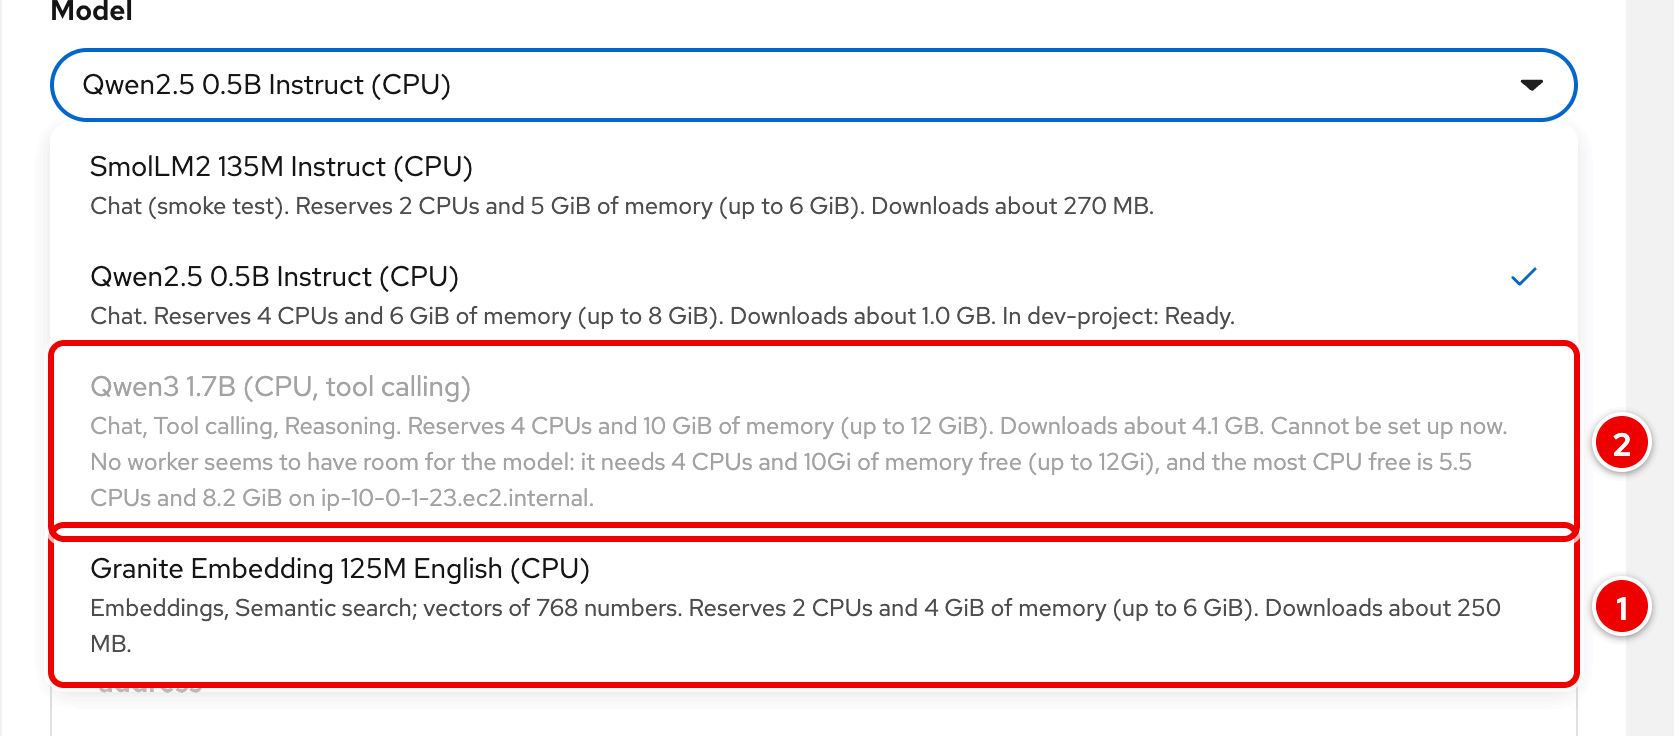
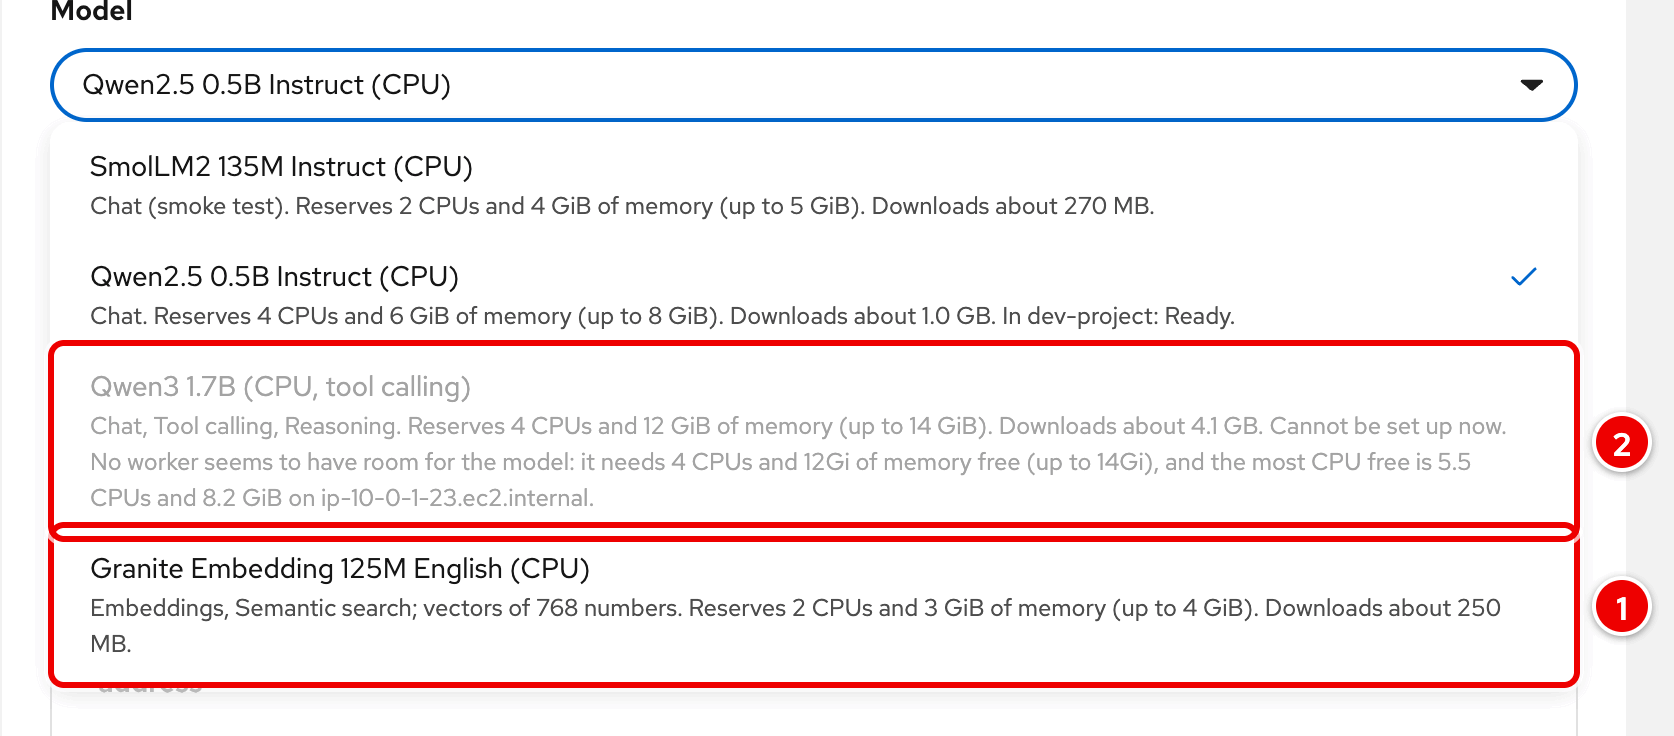
fix(models): size model memory from live measurements
Measured on RHOAI 3.6 with vLLM CPU 0.24 (2026-11-18, idle after start
with the KV cache reserved; oc adm top pod --containers, main container):
Granite embedding 2375Mi, SmolLM2 3364Mi, Qwen2.5 5625Mi, Qwen3 11590Mi.
Qwen3 ran about 0.4 GiB under its 12Gi limit, an OOM risk.

New requests / limits: Qwen3 12Gi / 14Gi, SmolLM2 4Gi / 5Gi, Granite
3Gi / 4Gi; Qwen2.5 stays 6Gi / 8Gi. SmolLM2, Qwen2.5 and Granite still
fit RHOAI 3.6's default-profile (up to 4 CPUs, 8 GiB); Qwen3 fits none,
so the dashboard keeps showing "No hardware profile" for it (new test).
The catalog comment, README, RUNBOOK, docs mock and images follow.

diff --git a/frontend/src/components/environment/models.test.tsx b/frontend/src/components/environment/models.test.tsx
@@ -20,14 +20,14 @@ const model = (ns: string, over: Partial<ModelState> = {}): ModelState => ({
   displayName: "Qwen2.5 0.5B Instruct (CPU)", url: `https://inference.apps.example.com/${ns}/qwen25-05b-instruct`, imageKind: "preset", ...over,
 });
 const catalog: CatalogModel[] = [
-  { name: "smollm2-135m-instruct", displayName: "SmolLM2 135M Instruct (CPU)", uri: "hf://HuggingFaceTB/SmolLM2-135M-Instruct:12fd25f77366fa6b3b4b768ec3050bf629380bac", cpu: "2", memoryRequest: "5Gi", memory: "6Gi",
+  { name: "smollm2-135m-instruct", displayName: "SmolLM2 135M Instruct (CPU)", uri: "hf://HuggingFaceTB/SmolLM2-135M-Instruct:12fd25f77366fa6b3b4b768ec3050bf629380bac", cpu: "2", memoryRequest: "4Gi", memory: "5Gi",
     type: "chat", useCase: "Chat (smoke test)", description: "A very small chat model.", args: "--max-model-len 4096", downloadSize: "270 MB" },
   { name: "qwen25-05b-instruct", displayName: "Qwen2.5 0.5B Instruct (CPU)", uri: "hf://Qwen/Qwen2.5-0.5B-Instruct:7ae557604adf67be50417f59c2c2f167def9a775", cpu: "4", memoryRequest: "6Gi", memory: "8Gi",
     type: "chat", useCase: "Chat", description: "A small chat model.", args: "--max-model-len 4096", downloadSize: "1.0 GB", default: true },
-  { name: "qwen3-1-7b", displayName: "Qwen3 1.7B (CPU, tool calling)", uri: "hf://Qwen/Qwen3-1.7B:70d244cc86ccca08cf5af4e1e306ecf908b1ad5e", cpu: "4", memoryRequest: "10Gi", memory: "12Gi",
+  { name: "qwen3-1-7b", displayName: "Qwen3 1.7B (CPU, tool calling)", uri: "hf://Qwen/Qwen3-1.7B:70d244cc86ccca08cf5af4e1e306ecf908b1ad5e", cpu: "4", memoryRequest: "12Gi", memory: "14Gi",
     type: "chat", toolCalling: true, useCase: "Chat, Tool calling, Reasoning", description: "A chat model that can call tools.", downloadSize: "4.1 GB",
     args: `--max-model-len 4096 --enable-auto-tool-choice --tool-call-parser hermes --reasoning-parser qwen3 --default-chat-template-kwargs '{"enable_thinking":false}'` },
-  { name: "granite-embedding-125m-english", displayName: "Granite Embedding 125M English (CPU)", uri: "hf://ibm-granite/granite-embedding-125m-english:4ab61ffd423be45cd932b21a7c696063d82bf45f", cpu: "2", memoryRequest: "4Gi", memory: "6Gi",
+  { name: "granite-embedding-125m-english", displayName: "Granite Embedding 125M English (CPU)", uri: "hf://ibm-granite/granite-embedding-125m-english:4ab61ffd423be45cd932b21a7c696063d82bf45f", cpu: "2", memoryRequest: "3Gi", memory: "4Gi",
     type: "embedding", embeddingDimension: 768, useCase: "Embeddings, Semantic search", description: "An English embedding model.", args: "--runner pooling --max-model-len 512", downloadSize: "250 MB" },
 ];
 const withRoom = (name: string, capacityWarning: string) => catalog.map((c) => (c.name === name ? { ...c, capacityWarning } : c));
@@ -287,7 +287,7 @@ describe("Models tab", () => {
     fireEvent.click(await screen.findByRole("button", { name: "Model" }));
     const smol = await screen.findByRole("option", { name: /SmolLM2 135M Instruct \(CPU\)/ });
     // What it is for, once: the use case the dashboard shows (no "Chat. For: Chat").
-    expect(smol).toHaveTextContent("Chat (smoke test). Reserves 2 CPUs and 5 GiB of memory (up to 6 GiB). Downloads about 270 MB.");
+    expect(smol).toHaveTextContent("Chat (smoke test). Reserves 2 CPUs and 4 GiB of memory (up to 5 GiB). Downloads about 270 MB.");
     expect(screen.getByRole("option", { name: /Qwen2.5 0.5B/ })).toHaveTextContent(/^Qwen2.5 0.5B Instruct \(CPU\)Chat\. Reserves 4 CPUs/);
     expect(screen.getByRole("option", { name: /Granite Embedding/ })).toHaveTextContent("Embeddings, Semantic search; vectors of 768 numbers. Reserves");
     const qwen3 = screen.getByRole("option", { name: /Qwen3 1.7B/ });
@@ -364,7 +364,7 @@ describe("Models tab", () => {
     stubApi({ "/api/resources/status": status({ inferenceGateway: gateway, models: modelsStatus({ items: [qwen25, qwen3] }) }), "/api/resources/projects": { projects: ["dev"] } });
     const view = renderAt("/test-resources?tab=models&project=dev&model=qwen3-1-7b");
     const part = await screen.findByRole("listitem", { name: "Qwen3 1.7B (CPU, tool calling)" });
-    expect(within(part).getByText(/None fits: no hardware profile on this cluster allows 4 CPUs and 10 GiB of memory \(up to 12 GiB\), so the dashboard.s Deployments table shows/)).toBeInTheDocument();
+    expect(within(part).getByText(/None fits: no hardware profile on this cluster allows 4 CPUs and 12 GiB of memory \(up to 14 GiB\), so the dashboard.s Deployments table shows/)).toBeInTheDocument();
     expect(within(part).getByText(/shows "No hardware profile" and the model.s details "Hardware profile: Unknown"/)).toBeInTheDocument();
     expect(within(part).getByText(/The model runs as set up/)).toBeInTheDocument();
     view.unmount();

diff --git a/pkg/cluster/models_catalog_test.go b/pkg/cluster/models_catalog_test.go
@@ -41,14 +41,14 @@ func TestModelCatalog_TheFourModels(t *testing.T) {
 		tools                                                       bool
 		dim                                                         int
 	}{
-		{"smollm2-135m-instruct", "hf://HuggingFaceTB/SmolLM2-135M-Instruct:12fd25f77366fa6b3b4b768ec3050bf629380bac", "chat", "2", "5Gi", "6Gi", "2", "1",
+		{"smollm2-135m-instruct", "hf://HuggingFaceTB/SmolLM2-135M-Instruct:12fd25f77366fa6b3b4b768ec3050bf629380bac", "chat", "2", "4Gi", "5Gi", "2", "1",
 			"--max-model-len 4096", "Chat (smoke test)", false, 0},
 		{"qwen25-05b-instruct", "hf://Qwen/Qwen2.5-0.5B-Instruct:7ae557604adf67be50417f59c2c2f167def9a775", "chat", "4", "6Gi", "8Gi", "4", "2",
 			"--max-model-len 4096", "Chat", false, 0},
-		{"qwen3-1-7b", "hf://Qwen/Qwen3-1.7B:70d244cc86ccca08cf5af4e1e306ecf908b1ad5e", "chat", "4", "10Gi", "12Gi", "4", "2",
+		{"qwen3-1-7b", "hf://Qwen/Qwen3-1.7B:70d244cc86ccca08cf5af4e1e306ecf908b1ad5e", "chat", "4", "12Gi", "14Gi", "4", "2",
 			`--max-model-len 4096 --enable-auto-tool-choice --tool-call-parser hermes --reasoning-parser qwen3 --default-chat-template-kwargs '{"enable_thinking":false}'`,
 			"Chat, Tool calling, Reasoning", true, 0},
-		{"granite-embedding-125m-english", "hf://ibm-granite/granite-embedding-125m-english:4ab61ffd423be45cd932b21a7c696063d82bf45f", "embedding", "2", "4Gi", "6Gi", "2", "1",
+		{"granite-embedding-125m-english", "hf://ibm-granite/granite-embedding-125m-english:4ab61ffd423be45cd932b21a7c696063d82bf45f", "embedding", "2", "3Gi", "4Gi", "2", "1",
 			"--runner pooling --max-model-len 512", "Embeddings, Semantic search", false, 768},
 	}
 	if len(modelCatalog) != len(want) {
@@ -77,6 +77,23 @@ func TestModelCatalog_TheFourModels(t *testing.T) {
 	}
 	if ValidModelName("llama") || !ValidModelName("qwen3-1-7b") || !ValidModelName("") {
 		t.Error("ValidModelName")
+	}
+}
+
+// The memory is sized from each model's live peak (RHOAI 3.6, vLLM CPU
+// 0.24): the three small models stay within RHOAI 3.6's default-profile
+// (1-4 CPUs, 2-8 GiB), so the dashboard names it for them; Qwen3 (12-14
+// GiB) fits none, and the dashboard shows "No hardware profile".
+func TestModelCatalog_DefaultProfileHoldsAllButQwen3(t *testing.T) {
+	var def hardwareProfileObject
+	if err := json.Unmarshal([]byte(hwProfile("default-profile", "4", "8Gi", "")), &def); err != nil {
+		t.Fatal(err)
+	}
+	for _, m := range modelCatalog {
+		why := def.fits(m)
+		if fits := why == ""; fits != (m.Name != "qwen3-1-7b") {
+			t.Errorf("%s (%s CPUs, %s-%s): fits the default profile = %v (%s)", m.Name, m.CPU, m.MemoryRequest, m.Memory, fits, why)
+		}
 	}
 }
 
@@ -190,7 +207,7 @@ func TestModelCatalog_Qwen3ArgumentsSurviveThePresetsEval(t *testing.T) {
 func TestModelsSetup_TheChosenModel(t *testing.T) {
 	mc := newModelsCluster(t)
 	putModelDeploymentFor(mc, "qwen3-1-7b")
-	// The default profile holds qwen25 (6-8 GiB) but not Qwen3 (10-12 GiB).
+	// The default profile holds qwen25 (6-8 GiB) but not Qwen3 (12-14 GiB).
 	putProfiles(mc, hwProfile("default-profile", "4", "8Gi", ""), hwProfile("large", "8", "16Gi", ""))
 	mc.f.putJSON("/api/v1/nodes/w1", `{"metadata":{"labels":{"kubernetes.io/arch":"amd64"}},"status":{"allocatable":{"cpu":"8","memory":"9Gi"}}}`)
 	res, events := runModels(t, mc.c, types.ModelsRequest{Action: "setup", Gateway: true, Project: "proj", Model: "qwen3-1-7b"})
@@ -209,13 +226,13 @@ func TestModelsSetup_TheChosenModel(t *testing.T) {
 		t.Errorf("hardware profile %v", ann[hardwareProfileNameAnnotation])
 	}
 	main := model["spec"].(map[string]interface{})["template"].(map[string]interface{})["containers"].([]interface{})[0].(map[string]interface{})
-	if r, _ := json.Marshal(main["resources"]); string(r) != `{"limits":{"cpu":"4","memory":"12Gi"},"requests":{"cpu":"4","ephemeral-storage":"6.2G","memory":"10Gi"}}` {
+	if r, _ := json.Marshal(main["resources"]); string(r) != `{"limits":{"cpu":"4","memory":"14Gi"},"requests":{"cpu":"4","ephemeral-storage":"6.2G","memory":"12Gi"}}` {
 		t.Errorf("resources %s", r)
 	}
-	// 9 GiB free holds qwen25's 6 GiB, not Qwen3's 10 GiB.
+	// 9 GiB free holds qwen25's 6 GiB, not Qwen3's 12 GiB.
 	warned := false
 	for _, e := range events {
-		warned = warned || (e.Step == "check" && e.Status == "success" && strings.Contains(e.Message, "it needs 4 CPUs and 10Gi of memory free"))
+		warned = warned || (e.Step == "check" && e.Status == "success" && strings.Contains(e.Message, "it needs 4 CPUs and 12Gi of memory free"))
 	}
 	if !warned {
 		t.Errorf("no capacity warning for the chosen model: %v", events)
@@ -285,7 +302,7 @@ func TestModelsStatus_CatalogWithEachModelsRoom(t *testing.T) {
 			t.Errorf("%s: warning %q", name, got[name])
 		}
 	}
-	if !strings.Contains(got["qwen3-1-7b"], "10Gi") {
+	if !strings.Contains(got["qwen3-1-7b"], "4 CPUs and 12Gi of memory free (up to 14Gi)") {
 		t.Errorf("qwen3 warning %q", got["qwen3-1-7b"])
 	}
 	pods := 0

diff --git a/pkg/cluster/models.go b/pkg/cluster/models.go
@@ -96,23 +96,25 @@ const (
 // (odh-dashboard rhoai-3.6 packages/llmd-serving/src/deployments/model.ts
 // extractRuntimeArgs L147-159), and would list a spaced JSON as two.
 //
-// Memory (requests and limits below, in one place). Measured live only
-// for qwen25 (RHOAI 3.6, vLLM CPU): 7.6 GiB with the preset's 4 GiB KV
-// cache (cgroup memory.peak 7.73 GiB over four parallel 600-token chats),
-// 5.8 GiB with a 2 GiB cache, which still holds over 100k tokens for it
-// (24 layers x 2 KV heads x 64 x 2 x 2 bytes = 12 KiB per token). That is
-// about 1 GB of weights, the cache, and some 3 GiB of runtime. The others
-// are estimates from the same parts (weights + KV cache + about 3 GiB),
-// to be measured live: SmolLM2 0.27 GB + 1 GiB, Qwen3 4.1 GB + 2 GiB,
-// Granite embedding 0.25 GB + 1 GiB. qwen25 also fits the dashboard's
-// default hardware profile (up to 4 CPUs and 8 GiB on 3.6).
+// Memory (requests and limits below, in one place), measured live on
+// RHOAI 3.6 with vLLM CPU 0.24 on 2026-11-18: the main container's memory
+// (oc adm top pod --containers), idle after start with the KV cache
+// already reserved. SmolLM2 3364Mi, Qwen2.5 5625Mi, Qwen3 11590Mi,
+// Granite embedding 2375Mi. Each request is 0.5-0.7 GiB above that, each
+// limit 1.7-2.7 GiB above it, for load. Qwen2.5 under load: 7.6 GiB with
+// the preset's 4 GiB KV cache (cgroup memory.peak 7.73 GiB over four
+// parallel 600-token chats), 5.8 GiB with the 2 GiB cache it has, which
+// still holds over 100k tokens for it (24 layers x 2 KV heads x 64 x 2 x 2
+// bytes = 12 KiB per token). SmolLM2, Qwen2.5 and Granite fit the
+// dashboard's default hardware profile (up to 4 CPUs and 8 GiB on 3.6);
+// Qwen3 fits none.
 //
 // DownloadSize is what the storage-initializer fetches at the pinned
 // commit with storageIgnorePatterns applied (Hugging Face API file sizes).
 var modelCatalog = []catalogModel{
 	{
 		CatalogModel: types.CatalogModel{Name: "smollm2-135m-instruct", DisplayName: "SmolLM2 135M Instruct (CPU)", URI: "hf://HuggingFaceTB/SmolLM2-135M-Instruct:12fd25f77366fa6b3b4b768ec3050bf629380bac",
-			CPU: "2", MemoryRequest: "5Gi", Memory: "6Gi", Type: modelTypeChat, UseCase: "Chat (smoke test)", DownloadSize: "270 MB",
+			CPU: "2", MemoryRequest: "4Gi", Memory: "5Gi", Type: modelTypeChat, UseCase: "Chat (smoke test)", DownloadSize: "270 MB",
 			Description: "A very small chat model, for checking that model serving works. From Hugging Face (HuggingFaceTB/SmolLM2-135M-Instruct), served by vLLM on CPU. Set up by rhoai-nightly-updater.",
 			Args:        "--max-model-len 4096"},
 		threads: "2", kvCacheGiB: "1", ephemeralStorage: "400M",
@@ -128,7 +130,7 @@ var modelCatalog = []catalogModel{
 		// Thinking is off by default (the user's choice); a request turns
 		// it on with chat_template_kwargs {"enable_thinking": true}.
 		CatalogModel: types.CatalogModel{Name: "qwen3-1-7b", DisplayName: "Qwen3 1.7B (CPU, tool calling)", URI: "hf://Qwen/Qwen3-1.7B:70d244cc86ccca08cf5af4e1e306ecf908b1ad5e",
-			CPU: "4", MemoryRequest: "10Gi", Memory: "12Gi", Type: modelTypeChat, ToolCalling: true, UseCase: "Chat, Tool calling, Reasoning", DownloadSize: "4.1 GB",
+			CPU: "4", MemoryRequest: "12Gi", Memory: "14Gi", Type: modelTypeChat, ToolCalling: true, UseCase: "Chat, Tool calling, Reasoning", DownloadSize: "4.1 GB",
 			Description: "A chat model that can call tools; its reasoning (thinking) is off unless a request turns it on. From Hugging Face (Qwen/Qwen3-1.7B), served by vLLM on CPU. Set up by rhoai-nightly-updater.",
 			Args:        `--max-model-len 4096 --enable-auto-tool-choice --tool-call-parser hermes --reasoning-parser qwen3 --default-chat-template-kwargs '{"enable_thinking":false}'`},
 		threads: "4", kvCacheGiB: "2", ephemeralStorage: "6.2G",
@@ -137,7 +139,7 @@ var modelCatalog = []catalogModel{
 		// A RobertaModel, which vLLM serves as an embedding model with the
 		// pooling runner (vLLM 0.24 removed --task); 512 positions.
 		CatalogModel: types.CatalogModel{Name: "granite-embedding-125m-english", DisplayName: "Granite Embedding 125M English (CPU)", URI: "hf://ibm-granite/granite-embedding-125m-english:4ab61ffd423be45cd932b21a7c696063d82bf45f",
-			CPU: "2", MemoryRequest: "4Gi", Memory: "6Gi", Type: modelTypeEmbedding, EmbeddingDimension: 768, UseCase: "Embeddings, Semantic search", DownloadSize: "250 MB",
+			CPU: "2", MemoryRequest: "3Gi", Memory: "4Gi", Type: modelTypeEmbedding, EmbeddingDimension: 768, UseCase: "Embeddings, Semantic search", DownloadSize: "250 MB",
 			Description: "An English embedding model (768 dimensions) for semantic search. From Hugging Face (ibm-granite/granite-embedding-125m-english), served by vLLM on CPU. Set up by rhoai-nightly-updater.",
 			Args:        "--runner pooling --max-model-len 512"},
 		threads: "2", kvCacheGiB: "1", ephemeralStorage: "375M",

diff --git a/pkg/cluster/models_hardware.go b/pkg/cluster/models_hardware.go
@@ -11,7 +11,7 @@ import (
 // profile a deployment uses (odh-dashboard
 // packages/hardware-profiles/shared/utils.ts applyHardwareProfileConfig).
 // Its Deployments page reads the name and namespace. A model with none of
-// them (no profile fits it: Qwen3's 10-12 GiB against the default
+// them (no profile fits it: Qwen3's 12-14 GiB against the default
 // profile's 8 GiB on 3.6) is shown so (odh-dashboard rhoai-3.6 a9ea0d86):
 //   - the table's Hardware profile column says "No hardware profile":
 //     useHardwareProfileBindingState returns no binding state without a

diff --git a/RUNBOOK.md b/RUNBOOK.md
@@ -345,7 +345,7 @@ The page has an **Overview** (each feature's state and next step) and one tab pe
 
 The **Models** tab sets up two parts with one **Set up**: the cluster's **inference gateway** (Gateway `openshift-ingress/openshift-ai-inference`, which every model is reached through) and the model chosen in the picker, on CPU in the chosen project (an LLMInferenceService of the model's name: `smollm2-135m-instruct`, `qwen25-05b-instruct` (the default), `qwen3-1-7b` or `granite-embedding-125m-english`). A project can hold several; Set up and Delete act on the chosen one. Objects: [CLUSTER_CHANGES §8](docs/CLUSTER_CHANGES.md#models-inference-gateway-cluster-and-cpu-models-a-project-you-choose).
 
-Before Set up the tab says what is missing: model serving turned off (DataScienceCluster `kserve` not Managed, or `KserveLLMInferenceServiceDependencies=False`), no CPU preset on this release, no data science project, or too little room on the workers: the picker disables a model no amd64 worker has room for now, and says what it needs (SmolLM2 2 CPUs / 5 GiB, Qwen2.5 4 / 6 GiB, Qwen3 4 / 10 GiB, Granite 2 / 4 GiB requested). The check is a snapshot: a cluster that adds nodes on demand may still fit it; the API's setup only warns. A gateway someone else made (RHOAI's install, an admin) reads **Not managed by this tool** and is used as it is.
+Before Set up the tab says what is missing: model serving turned off (DataScienceCluster `kserve` not Managed, or `KserveLLMInferenceServiceDependencies=False`), no CPU preset on this release, no data science project, or too little room on the workers: the picker disables a model no amd64 worker has room for now, and says what it needs (SmolLM2 2 CPUs / 4 GiB, Qwen2.5 4 / 6 GiB, Qwen3 4 / 12 GiB, Granite 2 / 3 GiB requested). The check is a snapshot: a cluster that adds nodes on demand may still fit it; the API's setup only warns. A gateway someone else made (RHOAI's install, an admin) reads **Not managed by this tool** and is used as it is.
 
 Each model also gets the dashboard's token authentication (ServiceAccount `<model>-sa` that may only `get` the model, Role `<model>-view-role`, RoleBinding `<model>-view`, token Secret `default-name-<model>-sa`, all owned by the model): the dashboard lists that token for the model, and its **Edit** keeps authentication on. Call a ready model with that token (your own `oc whoami -t` works too):
 
@@ -371,7 +371,7 @@ curl -s -H "Authorization: Bearer $TOKEN" -H 'Content-Type: application/json' $U
 |---|---|
 | Model **Error**: "The cluster preset's image is not published yet" (`ErrImagePull ... manifest unknown`) | A nightly build's CPU preset names a runtime image Red Hat has not published. Use **Use the newest released Red Hat image** on the model: it sets the newest released `registry.redhat.io/rhaii/vllm-cpu-rhel9` image, pinned by digest. Or mirror `registry.redhat.io/rhaii` to `registry.stage.redhat.io/rhaii` (ImageDigestMirrorSet) with a pull credential for that registry, then set the model up again. On disconnected clusters set `VLLM_CPU_IMAGE` on the updater |
 | Model stays **Setting up**, "Waiting for a worker with room" | `FailedScheduling: Insufficient cpu/memory`. Free what the picker says the model reserves on one amd64 worker, or add a node; it starts by itself |
-| Model **Error**: "keeps crashing ... OOMKilled" | The memory limit was too small (only Qwen2.5's was measured live; the others are estimates): `oc logs deploy/<model>-kserve -n <project> -c main --previous`, and report the model and its peak |
+| Model **Error**: "keeps crashing ... OOMKilled" | The memory limit was too small (each limit is the model's memory measured idle on RHOAI 3.6 with vLLM CPU 0.24, plus 1.7 to 2.7 GiB for load): `oc logs deploy/<model>-kserve -n <project> -c main --previous`, and report the model and its peak |
 | Qwen3 answers without `tool_calls`, or a tool request is refused | The model is served with `--enable-auto-tool-choice --tool-call-parser hermes`; check them in `oc get deploy qwen3-1-7b-kserve -n <project> -o yaml` (env `VLLM_ADDITIONAL_ARGS`) and the vLLM log for an unknown option |
 | The embedding model refuses an input | Its context is 512 tokens; split longer text |
 | A model reads "not created by this tool" although this tool set it up | A model is the tool's only when its UID is in the tool's record (snapshot ConfigMap, key `models`). A model a pre-release 3.0.0 build set up has none, nor one made again elsewhere under the name. Delete it yourself (`oc delete llminferenceservice <model> -n <project>`, after unpublishing it on the MaaS tab), then set it up again |
@@ -379,7 +379,7 @@ curl -s -H "Authorization: Bearer $TOKEN" -H 'Content-Type: application/json' $U
 | Set up refuses: "already has a ServiceAccount / Role / RoleBinding / Secret ... that this tool did not make for this model" | An object of the dashboard's token name for this model exists and is not owned by the model (left over, or someone else's). Delete it (`oc delete <kind> <name> -n <project>`) or use another project |
 | Set up warns "no room in its quota" | A ResourceQuota of the project leaves less than the model requests (`oc describe resourcequota -n <project>`). Raise it or stop other workloads; KServe cannot create the pod until then |
 | Model stays **Setting up**, `Insufficient ephemeral-storage` | The model requests node disk for its download (about 1.5 times it; KServe's default model volume is an emptyDir). Free disk on a worker or add one |
-| Hardware profile "None fits" (Qwen3) | No profile allows 4 CPUs and 10-12 GiB (the default allows 8 GiB): the dashboard's Deployments table shows "No hardware profile" and the details "Hardware profile: Unknown". The model runs as set up |
+| Hardware profile "None fits" (Qwen3) | No profile allows 4 CPUs and 12-14 GiB (the default allows 8 GiB): the dashboard's Deployments table shows "No hardware profile" and the details "Hardware profile: Unknown". The model runs as set up |
 | After Unpublish, the direct address does not answer | The project lacks the inference gateway's routes label (a model published before the gateway was restricted was not counted): a cluster-admin runs the `oc label namespace` command the result shows |
 | Model **Error**: "KServe cannot resolve its preset" | The preset named in `spec.baseRefs` is gone (RHOAI was updated and its prefix changed). Set the model up again: it re-reads the prefix |
 | Gateway **Needs attention**: "The gateway's authentication is missing" | odh-model-controller adds AuthPolicy `openshift-ai-inference-authn` once a model uses the gateway; check that odh-model-controller and Connectivity Link (Kuadrant) run: `oc get authpolicy -n openshift-ingress` |

diff --git a/README.md b/README.md
@@ -119,10 +119,10 @@ The Models tab serves small models from Hugging Face on CPU in a data science pr
 
 | Model | Type, for | Reserves (request, limit) | Download | vLLM options |
 |---|---|---|---|---|
-| `smollm2-135m-instruct`, SmolLM2 135M Instruct | Chat (smoke test) | 2 CPUs, 5 / 6 GiB | about 270 MB | `--max-model-len 4096` |
+| `smollm2-135m-instruct`, SmolLM2 135M Instruct | Chat (smoke test) | 2 CPUs, 4 / 5 GiB | about 270 MB | `--max-model-len 4096` |
 | `qwen25-05b-instruct`, Qwen2.5 0.5B Instruct (the default) | Chat | 4 CPUs, 6 / 8 GiB | about 1.0 GB | `--max-model-len 4096` |
-| `qwen3-1-7b`, Qwen3 1.7B | Chat, tool calling, reasoning (thinking off by default) | 4 CPUs, 10 / 12 GiB | about 4.1 GB | `--max-model-len 4096 --enable-auto-tool-choice --tool-call-parser hermes --reasoning-parser qwen3 --default-chat-template-kwargs '{"enable_thinking":false}'` |
-| `granite-embedding-125m-english`, Granite Embedding 125M English | Embeddings (768 dimensions), semantic search | 2 CPUs, 4 / 6 GiB | about 250 MB | `--runner pooling --max-model-len 512` |
+| `qwen3-1-7b`, Qwen3 1.7B | Chat, tool calling, reasoning (thinking off by default) | 4 CPUs, 12 / 14 GiB | about 4.1 GB | `--max-model-len 4096 --enable-auto-tool-choice --tool-call-parser hermes --reasoning-parser qwen3 --default-chat-template-kwargs '{"enable_thinking":false}'` |
+| `granite-embedding-125m-english`, Granite Embedding 125M English | Embeddings (768 dimensions), semantic search | 2 CPUs, 3 / 4 GiB | about 250 MB | `--runner pooling --max-model-len 512` |
 
 <img src="docs/images/environment-models.png" alt="Models tab: Ready in dev-project; the model picker with Qwen3 1.7B (CPU, tool calling) chosen; the inference gateway Ready with its external address, DNS and authentication; Qwen3 Ready with its use case, resources, source, vLLM options, address, runtime image, no fitting hardware profile and its token authentication" width="760">
 

diff --git a/CHANGELOG.md b/CHANGELOG.md
@@ -58,8 +58,10 @@ only accepts a tag whose version is the top dated section. See
   what it is for, what it reserves and its download; a model no worker has
   room for is disabled with the reason. A project can hold several; Set up,
   Delete and Use it act on the chosen one (embeddings get a
-  `/v1/embeddings` command, Qwen3 tool-calling and thinking commands). The
-  storage-initializer skips ONNX and PyTorch files. The Playground adds
+  `/v1/embeddings` command, Qwen3 tool-calling and thinking commands).
+  Memory requests and limits come from each model's use measured live on
+  RHOAI 3.6: SmolLM2 4 / 5 GiB, Qwen2.5 6 / 8 GiB, Qwen3 12 / 14 GiB,
+  Granite 3 / 4 GiB. The storage-initializer skips ONNX and PyTorch files. The Playground adds
   this tool's embedding model as an embedding model (768 dimensions); MaaS
   publishes the chosen chat model (`MaaSRequest.model`). RBAC: the
   LLMInferenceService rule names the four models and the MaaSModelRef rule
